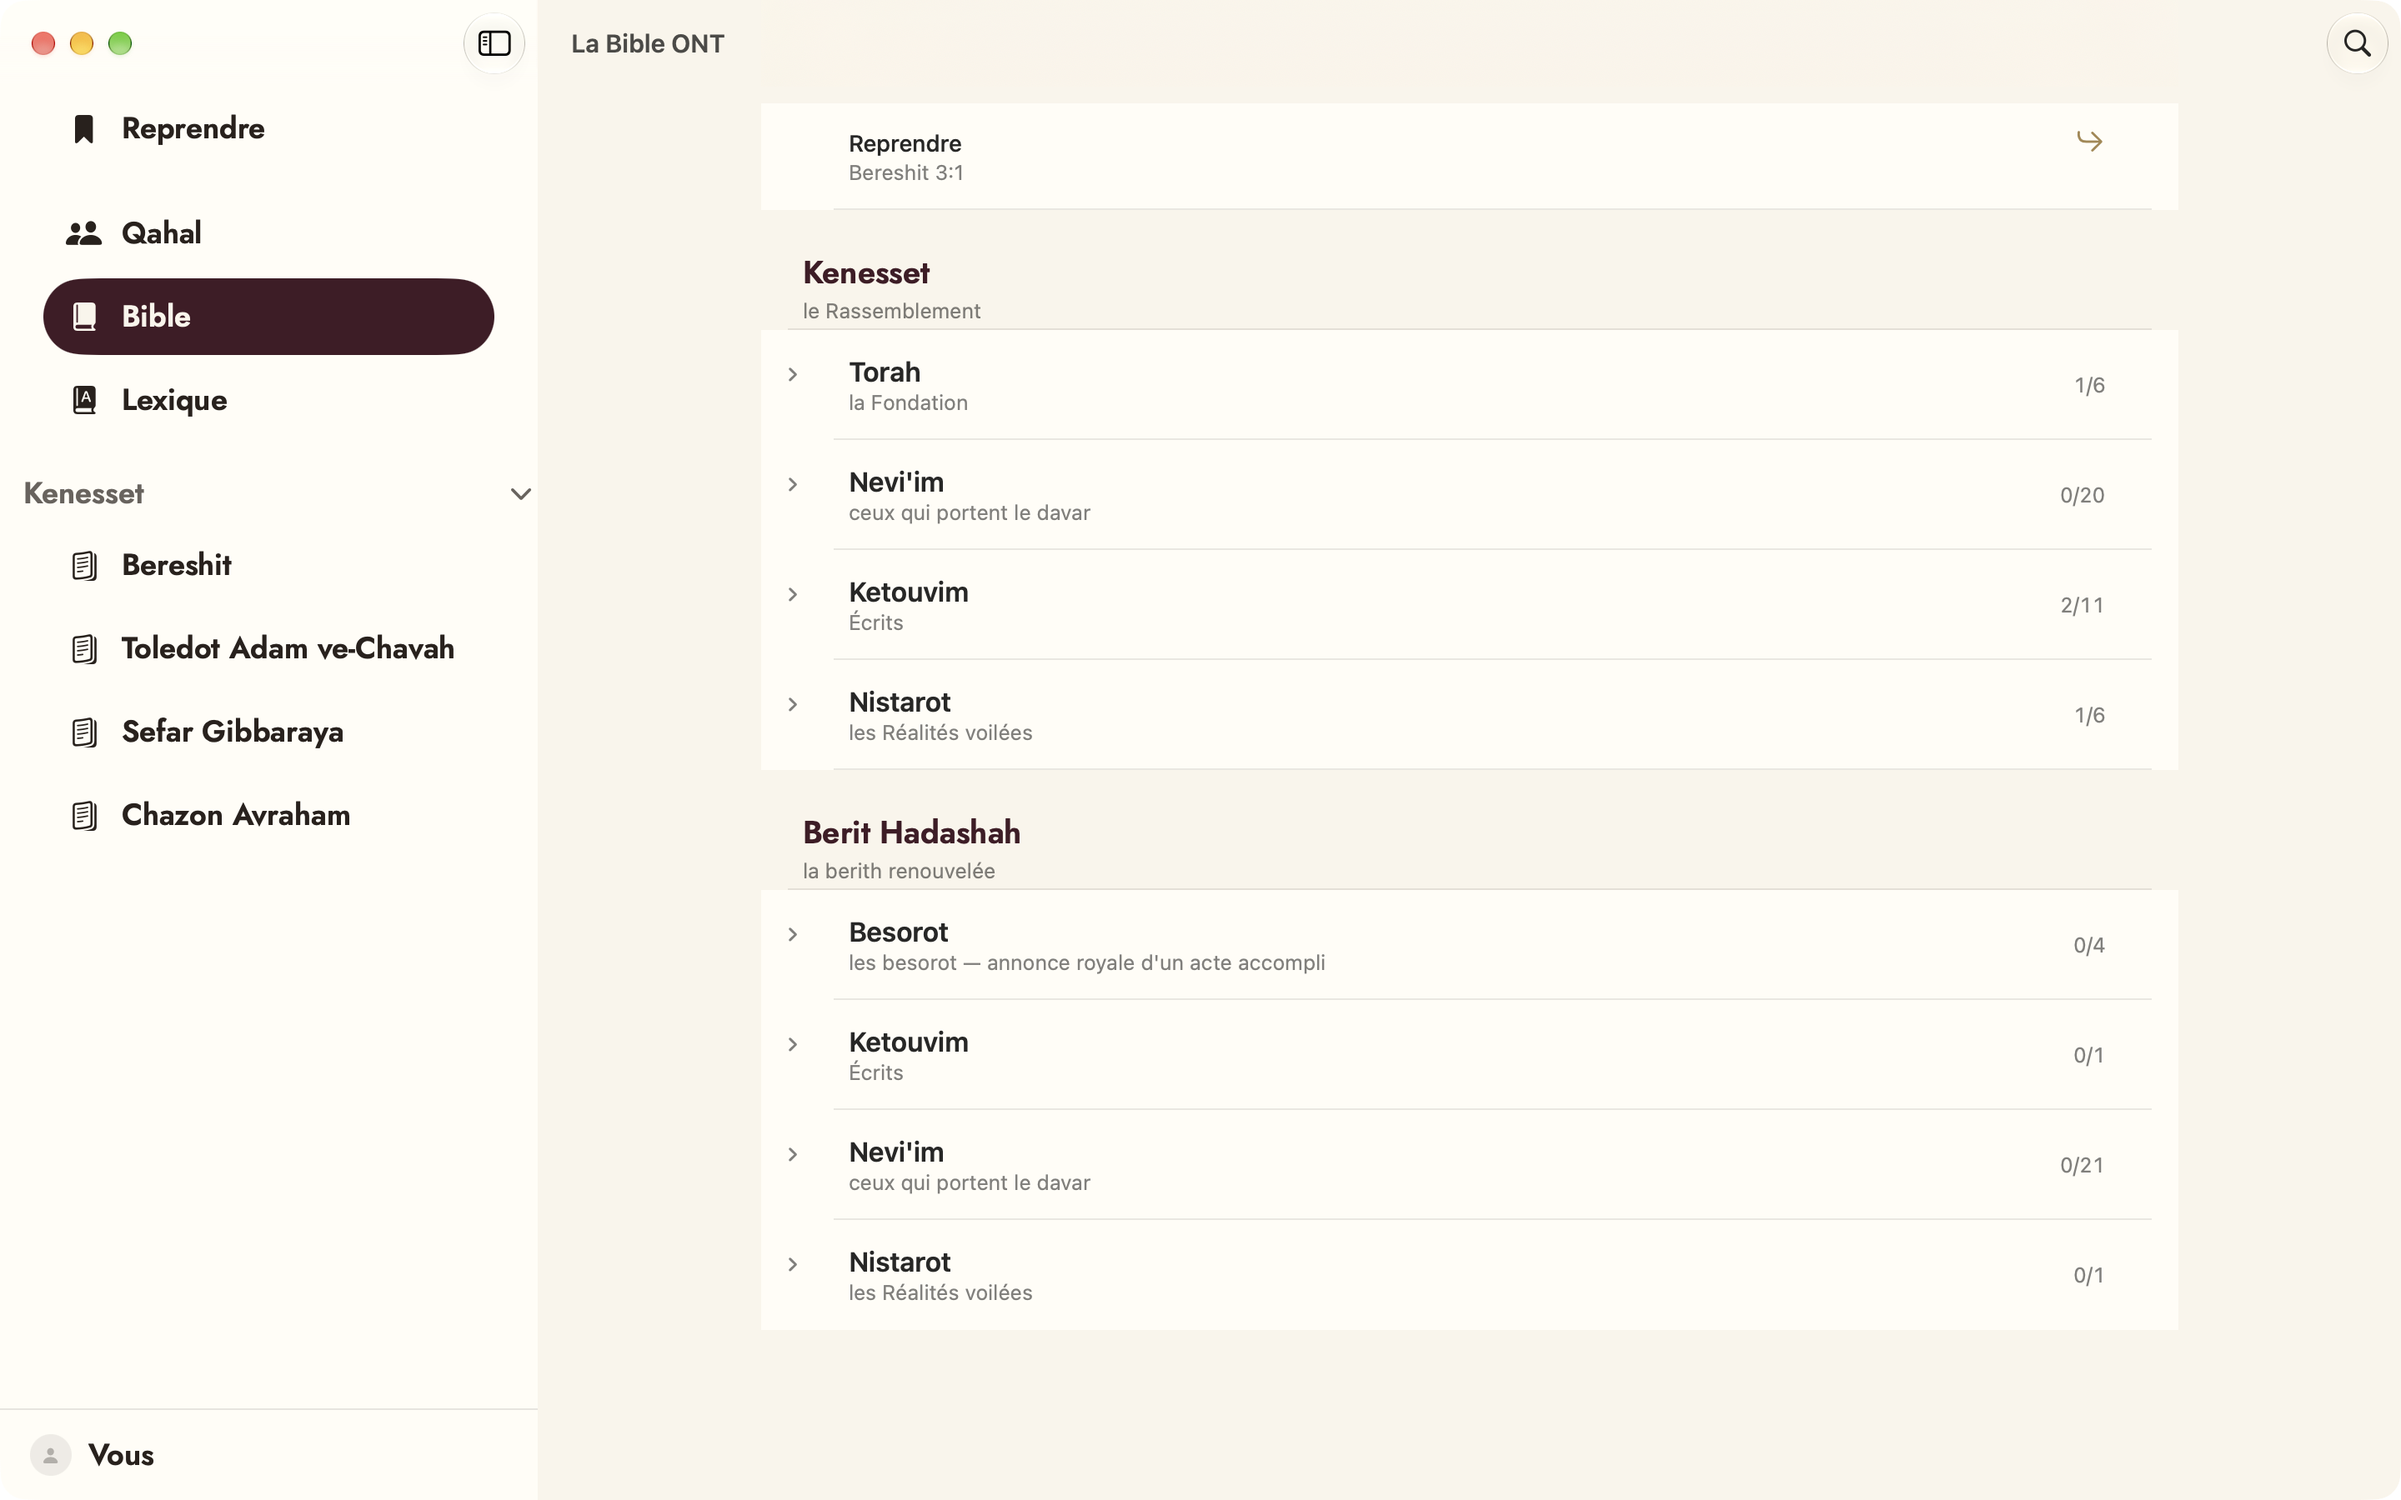
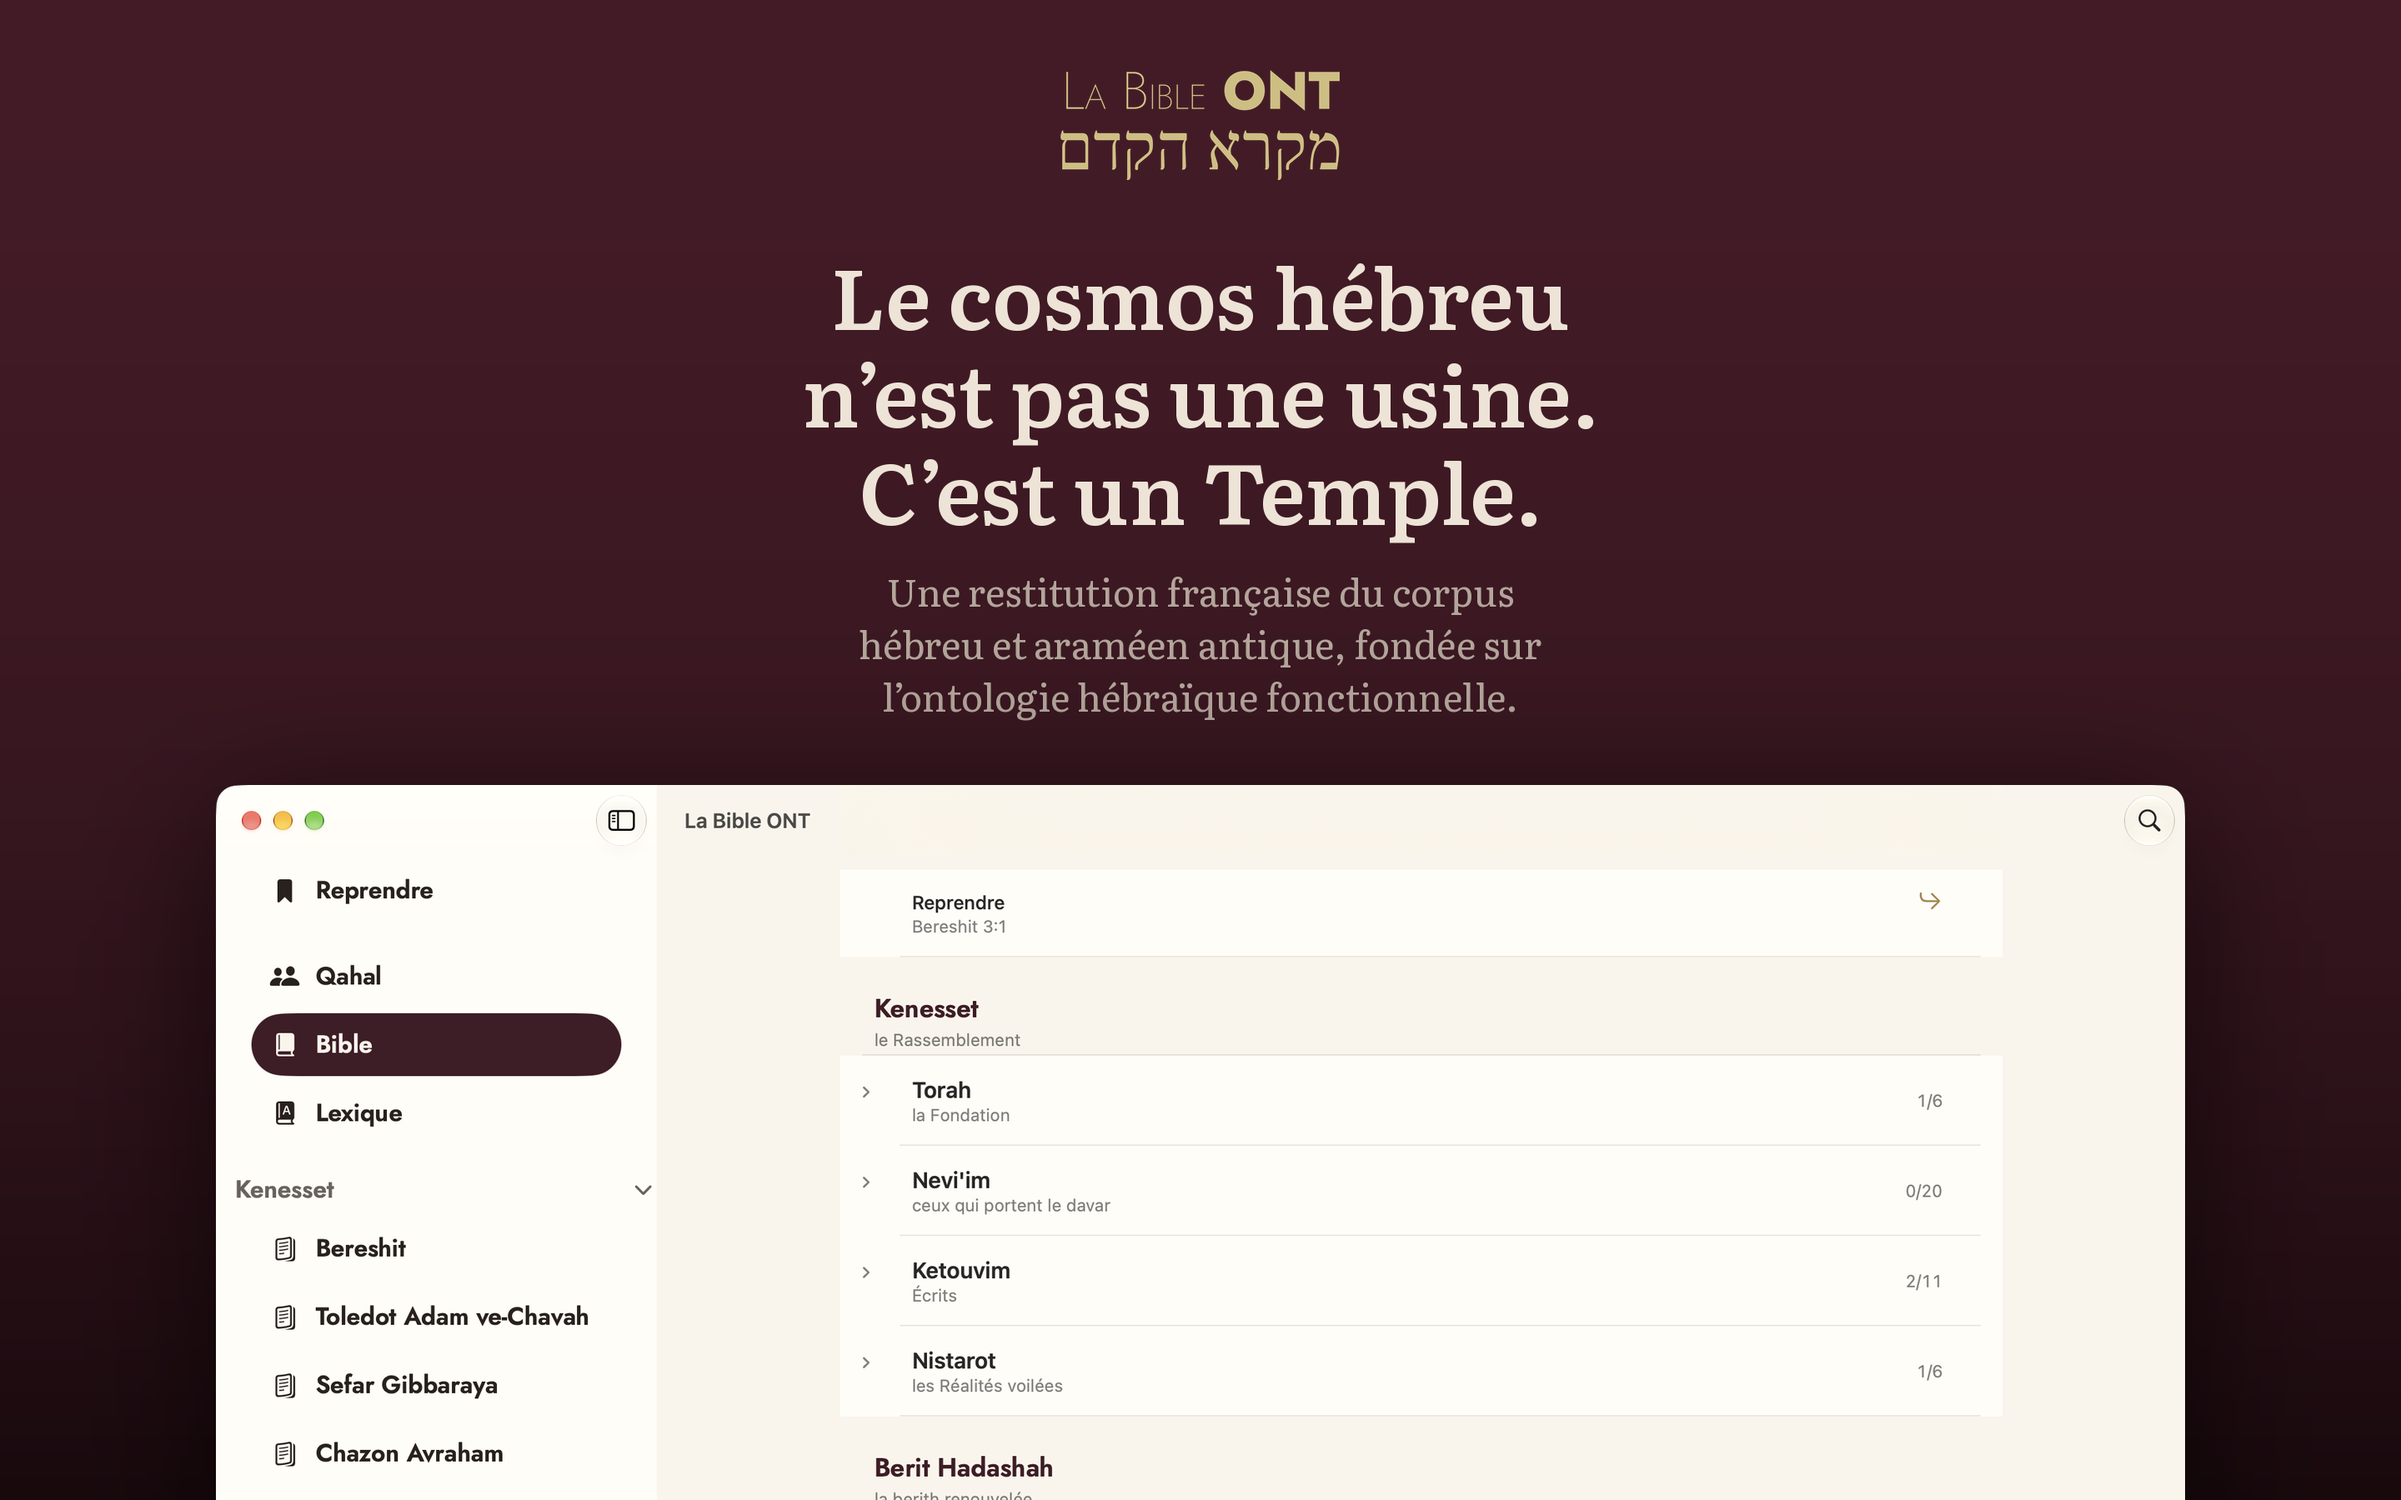
# Faire au Mac ses affiches, et non lui laisser des captures nues
Les captures du Mac atterrissaient telles quelles dans `Captures/mac/`, alors
que celles de l'iPhone passent par `brut/` puis par `vitrine.py` — marque,
accroche, phrase, appareil qui déborde. Deux fiches du même produit auraient
raconté deux choses.

Elles passent par le même script maintenant. Trois choses ont dû changer.

## Le Mac ne se dessine pas

`vitrine.py` dessine un châssis d'iPhone parce que `simctl` ne rend que la
dalle : ni lunette, ni boutons, ni Dynamic Island. Rien de tel ici —
`screencapture -l` rend la fenêtre **avec ses coins arrondis en transparence**,
vérifié, alpha 0 aux quatre angles, plus sa barre de titre et ses pastilles.

Une fenêtre de macOS est déjà un objet fini. Lui ajouter un châssis d'écran
reviendrait à dessiner un moniteur autour, ce qu'aucune fiche du Mac App Store
ne fait. D'où `nu` : mise à l'échelle, et l'ombre qui la décolle du fond.

## Le texte se mesure sur le petit côté

C'était « tout sur la largeur ». Ça tenait tant que les affiches étaient en
portrait — et c'est **exactement pourquoi rien ne bouge pour l'iPhone ni pour
l'iPad** : `min(L, H)` vaut leur largeur au pixel près, 1320 et 2064. Vérifié
avant d'écrire une ligne, faute de pouvoir refaire leurs affiches ici : leurs
captures brutes ne sont pas dans le dépôt.

Le Mac est en paysage. Mesurer son texte sur la largeur donnerait une accroche
de trois cents points dans dix-huit cents de hauteur : le titre seul remplirait
[…]

diff --git a/scripts/vitrine.py b/scripts/vitrine.py
@@ -212,6 +212,17 @@ ILE = (125 / 440, 37 / 440, 11 / 440)
 def appareil(capture, largeur_cible, cadre):
     """La capture montée dans un châssis d'appareil.
 
+    ## Sauf sur le Mac, où l'on ne dessine rien
+
+    `screencapture -l` rend la fenêtre **avec ses coins arrondis en
+    transparence** — vérifié, alpha 0 aux quatre angles. Une fenêtre de macOS
+    est déjà un objet fini : elle porte sa barre de titre, ses trois pastilles
+    et sa forme. Lui ajouter un châssis d'écran serait dessiner un moniteur
+    autour d'une fenêtre, ce qu'aucune fiche du Mac App Store ne fait.
+
+    D'où `nu` : on met la capture à l'échelle et rien d'autre. L'ombre, elle,
+    reste — c'est elle qui décolle la fenêtre du fond.
+
     ## Pourquoi ce n'est pas un rectangle arrondi
 
     Ça l'a été, et l'affiche s'est fait prendre pour un appareil Android. Un
@@ -231,6 +242,12 @@ def appareil(capture, largeur_cible, cadre):
     et **pas d'île** — la caméra de l'iPad Pro M5 est sur le bord long,
     invisible en portrait.
     """
+    if cadre.get("nu"):
+        hauteur = round(capture.height * largeur_cible / capture.width)
+        return capture.convert("RGBA").resize(
+            (largeur_cible, hauteur), Image.LANCZOS
+        )
+
     bordure = max(3, round(largeur_cible * cadre["bordure"]))
     rayon = round(largeur_cible * cadre["rayon"])
     saillie = max(2, round(largeur_cible * 0.007))
@@ -341,36 +358,50 @@ def affiche(chemin_capture, titre, phrase, cadre):
     toile = fond(L, H).convert("RGBA")
     dessin = ImageDraw.Draw(toile)
 
-    # Tout se mesure sur la largeur, jamais sur la hauteur : l'iPhone et
-    # l'iPad n'ont pas la même proportion, et un corps de texte réglé sur la
-    # hauteur sortirait deux fois plus gros sur l'un que sur l'autre.
-    marge = round(L * 0.075)
+    # **Le texte se mesure sur le petit côté, l'appareil sur la largeur.**
+    #
+    # C'était « tout sur la largeur », et ça tenait tant que les affiches
+    # étaient en portrait : sur l'iPhone comme sur l'iPad, le petit côté *est*
+    # la largeur, donc `ref` vaut exactement ce que valait `L` et rien ne bouge
+    # pour eux.
+    #
+    # Le Mac est en paysage — 2880 × 1800. Mesurer son texte sur la largeur
+    # donnerait une accroche de trois cents points de corps dans dix-huit cents
+    # points de hauteur : le titre seul remplirait l'affiche.
+    #
+    # `texte` rattrape ce qui reste : même sur le petit côté, un paysage laisse
+    # moins de place au-dessus de l'appareil qu'un portrait.
+    ref = round(min(L, H) * cadre.get("texte", 1.0))
+    marge = round(ref * 0.075)
     f_titre, corps_titre = ajuster(
-        dessin, titre, "Literata-SemiBold.ttf", round(L * 0.103), L * 0.86
+        dessin, titre, "Literata-SemiBold.ttf", round(ref * 0.103), min(L, ref * 0.86)
     )
-    f_phrase = police("Literata-Regular.ttf", round(L * 0.040))
+    f_phrase = police("Literata-Regular.ttf", round(ref * 0.040))
 
     y = marge
 
-    signature = marque(round(L * 0.30))
+    signature = marque(round(ref * 0.30))
     toile.alpha_composite(signature, ((L - signature.width) // 2, y))
-    y += signature.height + round(L * 0.055)
+    y += signature.height + round(ref * 0.055)
 
     hauteur_ligne = round(corps_titre * 1.16)
     for ligne in titre:
         dessin.text((L / 2, y), ligne, font=f_titre, fill=ENCRE_VIVE, anchor="ma")
         y += hauteur_ligne
-    y += round(L * 0.042)
+    y += round(ref * 0.042)
 
     # La phrase est tenue plus étroite que le titre : une ligne de soixante
     # signes se relit, une ligne qui court sur toute la largeur non.
-    for ligne in couper(dessin, phrase, f_phrase, L * 0.74):
+    for ligne in couper(dessin, phrase, f_phrase, min(L, ref * 0.74)):
         dessin.text((L / 2, y), ligne, font=f_phrase, fill=ENCRE_DOUCE, anchor="ma")
-        y += round(L * 0.040 * 1.42)
+        y += round(ref * 0.040 * 1.42)
 
-    y += round(L * 0.070)
+    y += round(ref * 0.070)
 
-    largeur_appareil = round(L * 0.735)
+    # La largeur de l'appareil se mesure sur celle de l'affiche, et par cadre :
+    # un portrait supporte des marges généreuses, un paysage les fait paraître
+    # vides. Le Mac occupe donc plus de sa largeur que l'iPhone de la sienne.
+    largeur_appareil = round(L * cadre.get("largeur", 0.735))
     vignette = appareil(capture, largeur_appareil, cadre)
     x = (L - vignette.width) // 2
     plaque, decalage_ombre = ombre(
@@ -391,6 +422,20 @@ def affiche(chemin_capture, titre, phrase, cadre):
 # Un dossier Android s'ajoutera ici le jour venu — sans île, coins moins
 # arrondis, rail neutre — et rien d'autre ne bougera.
 CADRES = {
+    # **Le Mac ne se dessine pas.** Voir `appareil()` : la capture porte déjà
+    # ses coins, sa barre de titre et ses pastilles.
+    #
+    # `texte` à 0,62 parce qu'un paysage laisse moins de hauteur au-dessus de
+    # l'appareil qu'un portrait : à 1,0 le titre et la phrase mangeaient la
+    # fenêtre. Le rayon vaut celui d'une fenêtre de macOS — dix points sur une
+    # fenêtre de mille quatre cent quarante — ramené en fraction de la largeur
+    # de la vignette, et il ne sert qu'à l'ombre.
+    "mac": {
+        "nu": True,
+        "texte": 0.62,
+        "largeur": 0.82,
+        "rayon": 0.007,
+    },
     "iphone-6.9": {
         "ile": True,
         "bordure": 0.030,
@@ -421,10 +466,23 @@ CADRES = {
 
 
 def main():
+    # **Un dossier brut absent est sauté, pas fatal — et il est nommé.**
+    #
+    # Les captures de l'iPhone et celles du Mac se prennent par deux scripts
+    # différents, sur deux machines qui n'ont pas les mêmes moyens : un
+    # simulateur d'un côté, la fenêtre native de l'autre. Refuser de composer
+    # les unes parce que les autres manquent obligerait à tout refaire pour
+    # retoucher une accroche.
+    #
+    # Ce qui reste fatal : n'avoir rien composé du tout. Sinon le script rendrait
+    # zéro et l'on croirait la vitrine à jour.
+    faits = 0
     for dossier, cadre in CADRES.items():
         source = CAPTURES / "brut" / dossier
         if not source.is_dir():
-            sys.exit(f"manque {source} — lancer ./scripts/captures.sh d'abord")
+            print(f"  {dossier} : aucune capture brute, sauté")
+            continue
+        faits += 1
         cible = CAPTURES / dossier
         cible.mkdir(parents=True, exist_ok=True)
         for i, (titre, phrase) in enumerate(AFFICHES, start=1):
@@ -432,6 +490,12 @@ def main():
             image = affiche(source / nom, titre, phrase, cadre)
             image.save(cible / nom)
             print(f"  {cible.relative_to(RACINE)}/{nom}  {image.width}×{image.height}")
+
+    if faits == 0:
+        sys.exit(
+            f"aucune capture brute sous {(CAPTURES / 'brut').relative_to(RACINE)} — "
+            "lancer ./scripts/captures.sh ou ./scripts/captures-mac.sh d'abord"
+        )
 
 
 if __name__ == "__main__":
